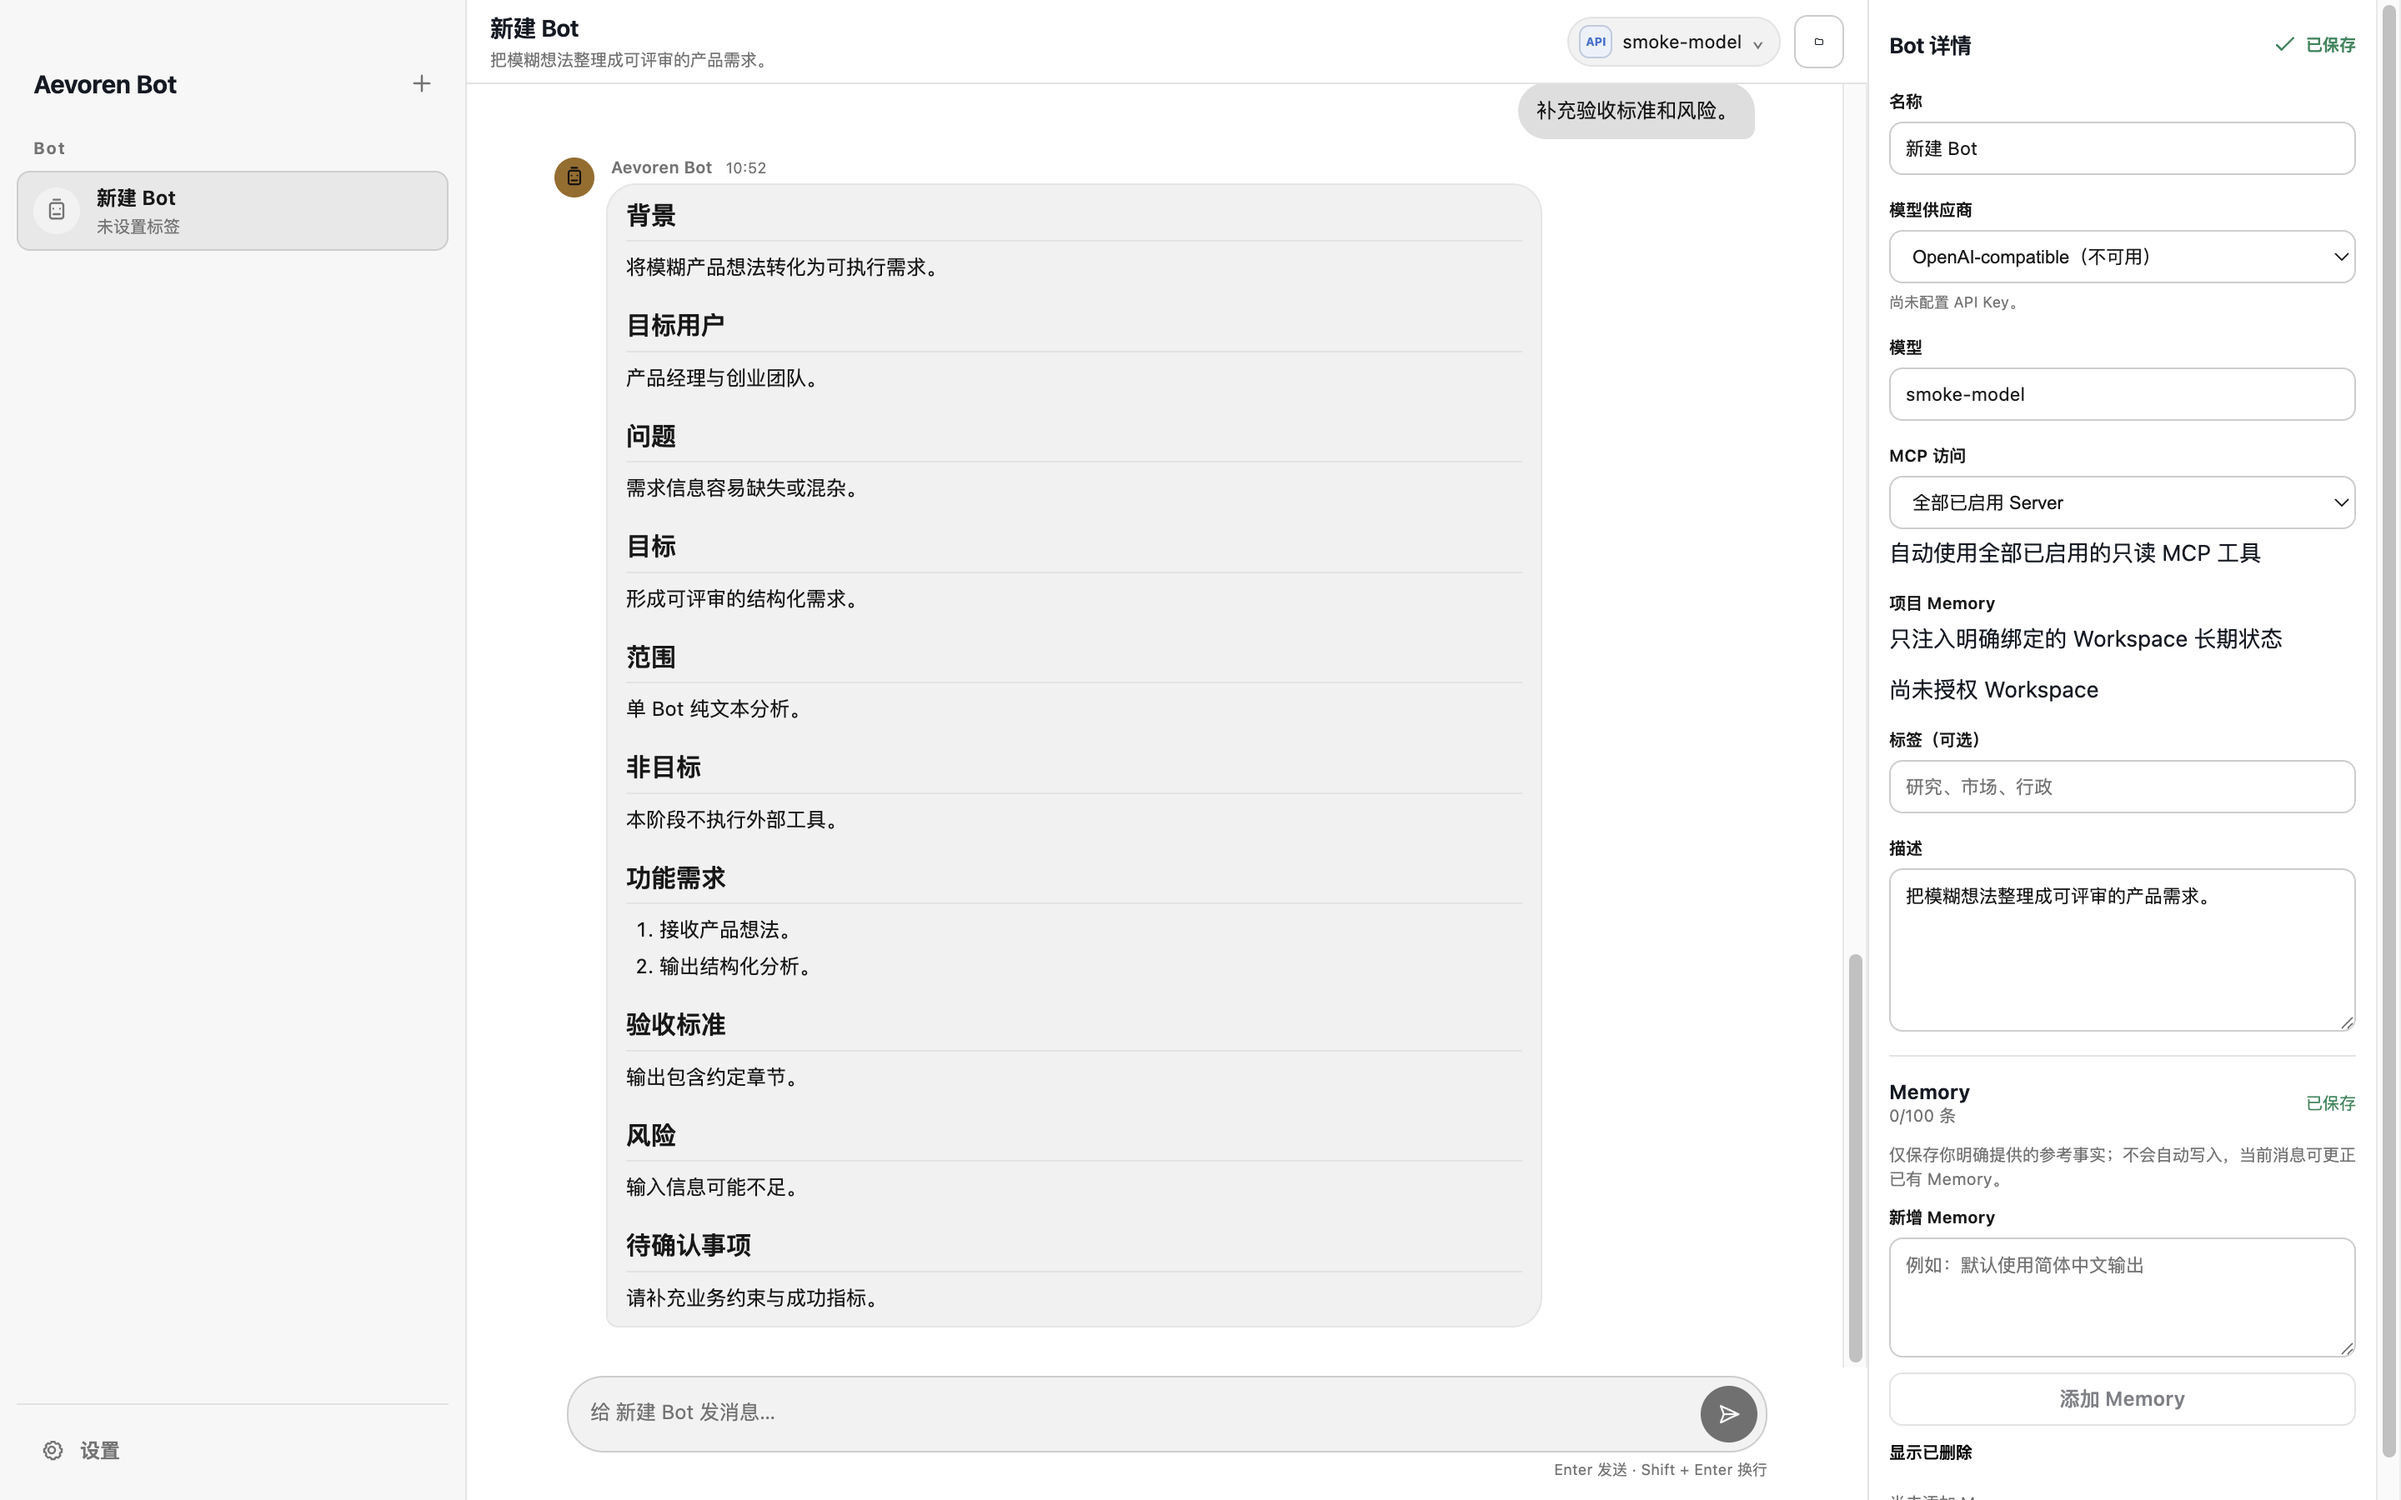
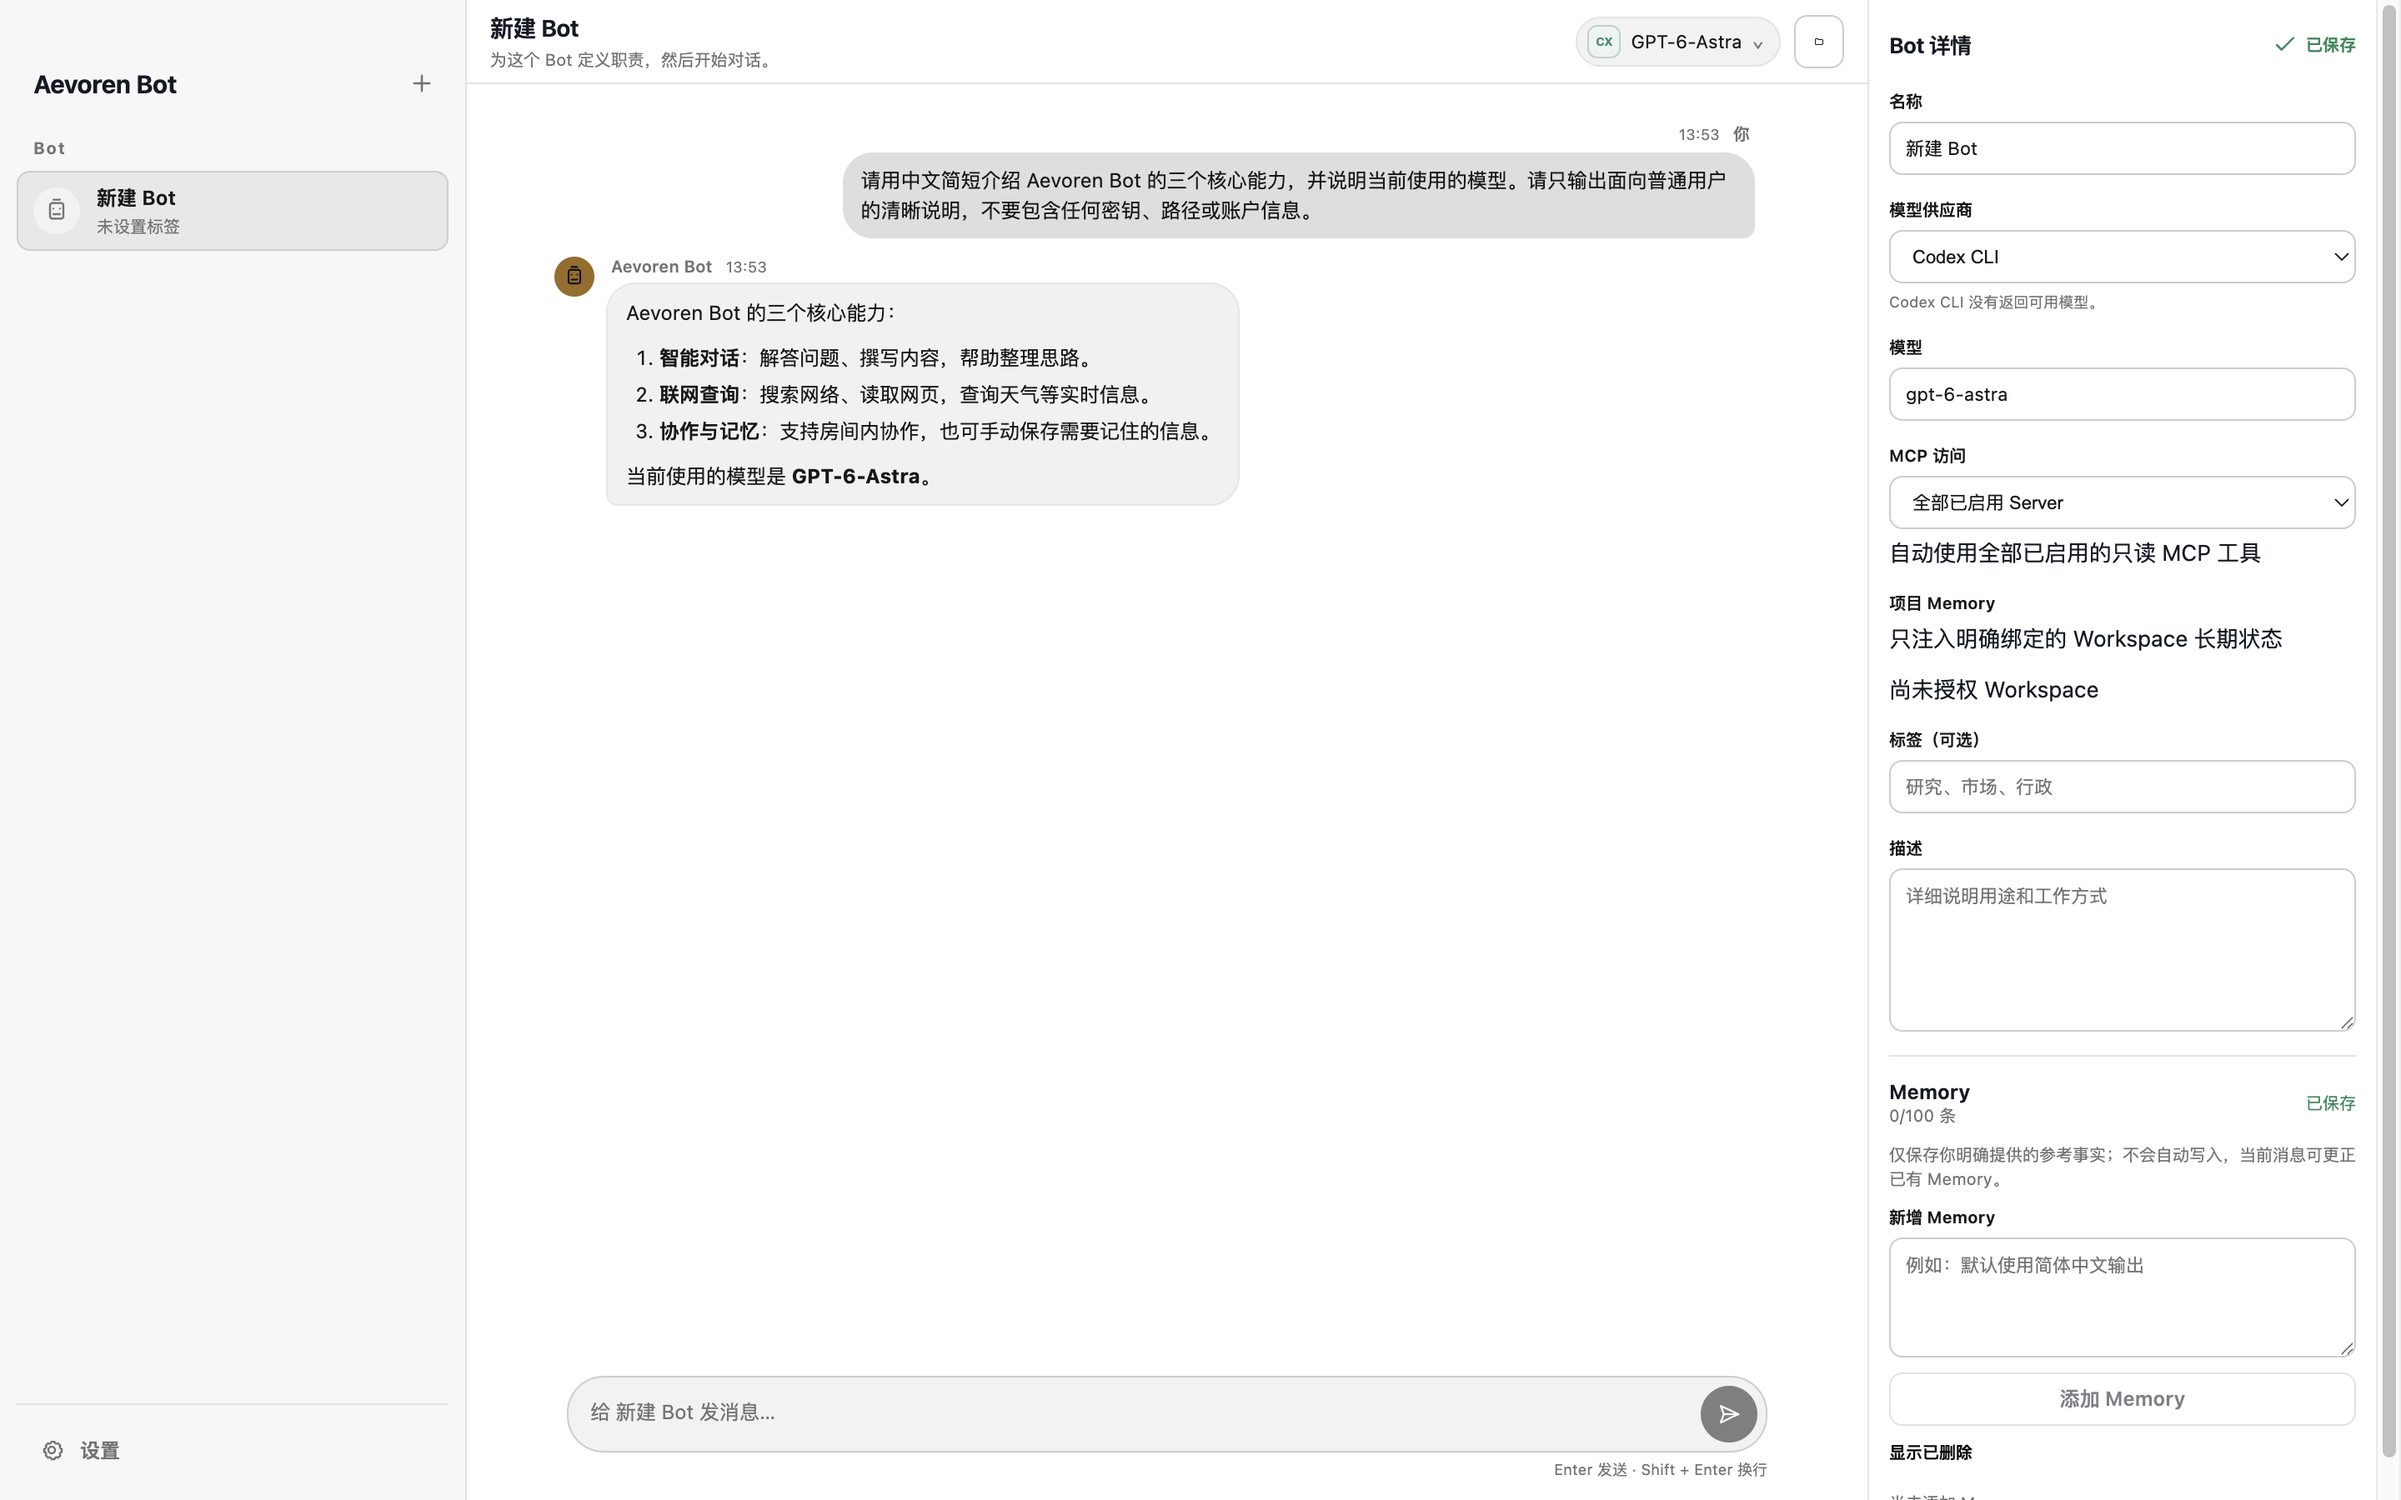
docs: replace portal screenshot with real AI flow

diff --git a/docs/ASSET_PROVENANCE.md b/docs/ASSET_PROVENANCE.md
@@ -5,7 +5,7 @@ This inventory records the disposition of visual and research assets before the 
 | Asset group | Current location | Current status | Required action |
 | --- | --- | --- | --- |
[1 lines of base64/hex data omitted]
-| Public product overview screenshot | `docs/assets/aevoren-bot-overview.png` | Captured from the deterministic Fake Provider Smoke flow using synthetic Bot/profile content; no real account, key, transcript, or personal path | Safe for public README and portal display; regenerate if the public UI changes materially |
[1 lines of base64/hex data omitted]
 | Original abstract Aevoren icon | Superseded locally; retained in Git history and a temporary recovery backup | Original project asset generated for Aevoren Bot with documented provenance | May be restored if an independently cleared public-release icon is required |
 | Internal UI concepts and implementation captures | Removed from the public tree and rewritten history | Project-internal validation material | Retained only in the private archive |
 | Third-party product screenshots and comparison composites | Removed from the public tree and rewritten history | Third-party interface imagery | Retained only in the private archive; not redistributed in the public repository |
